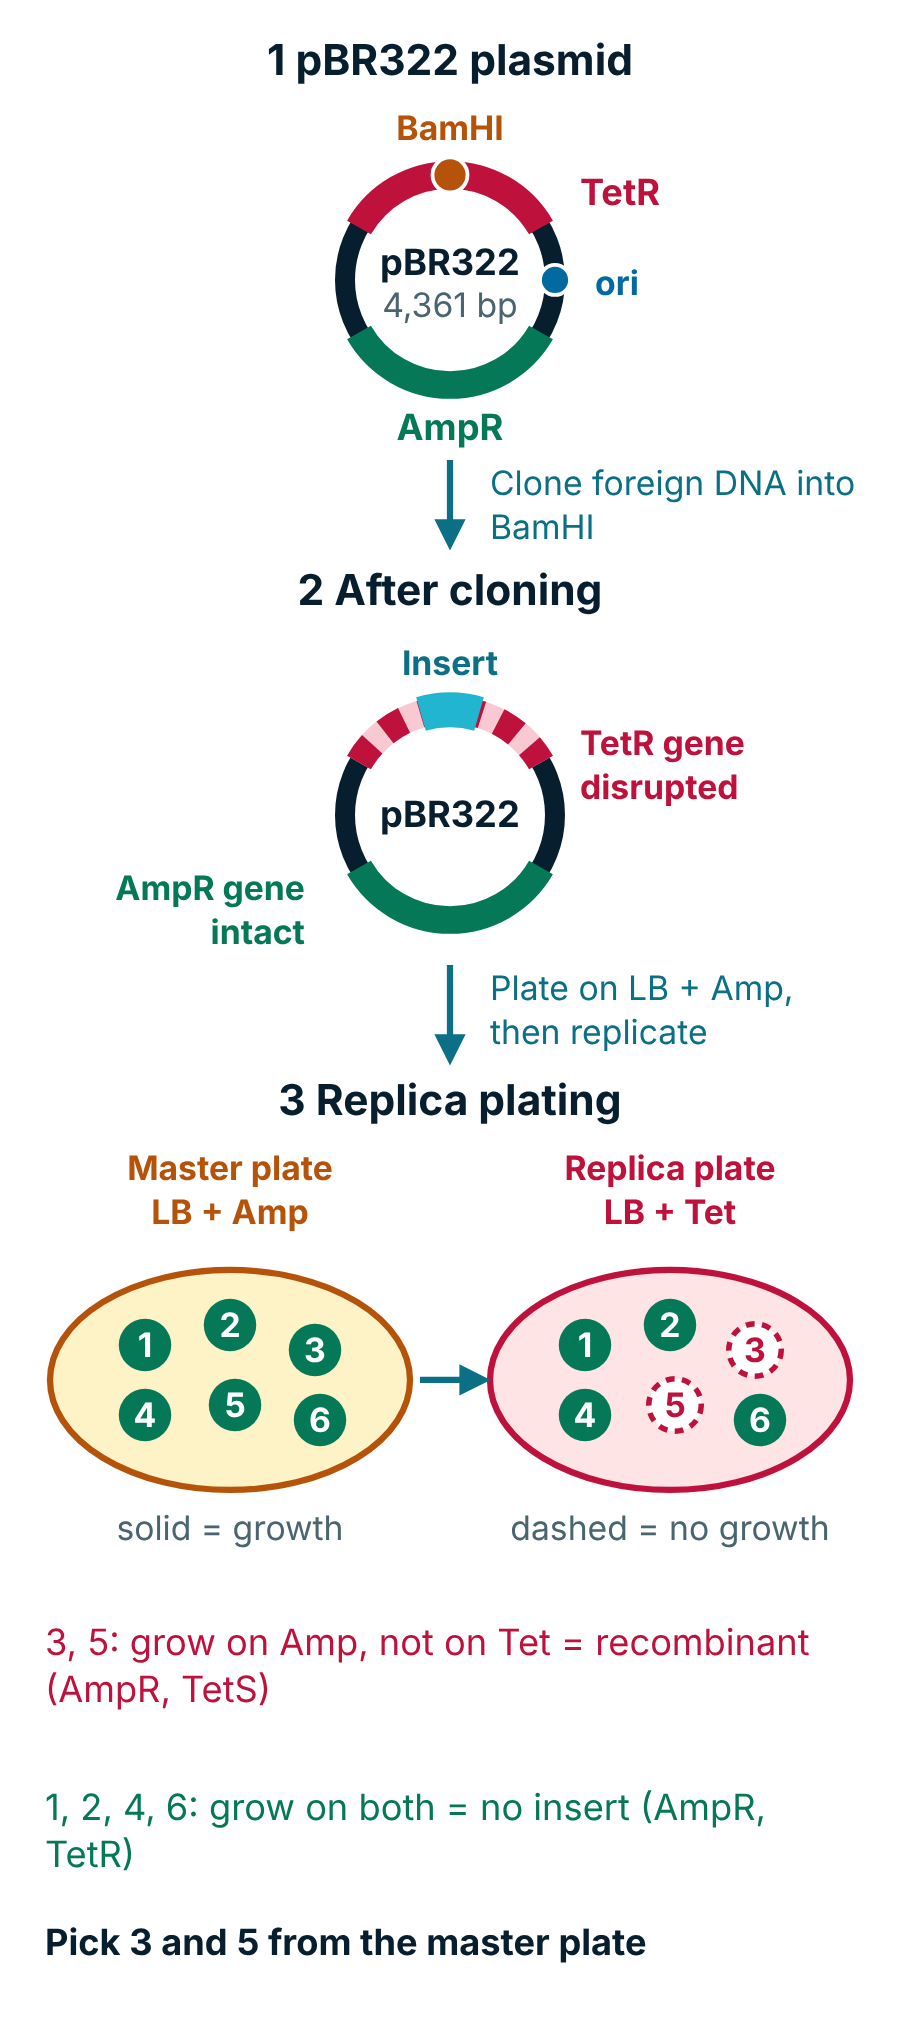
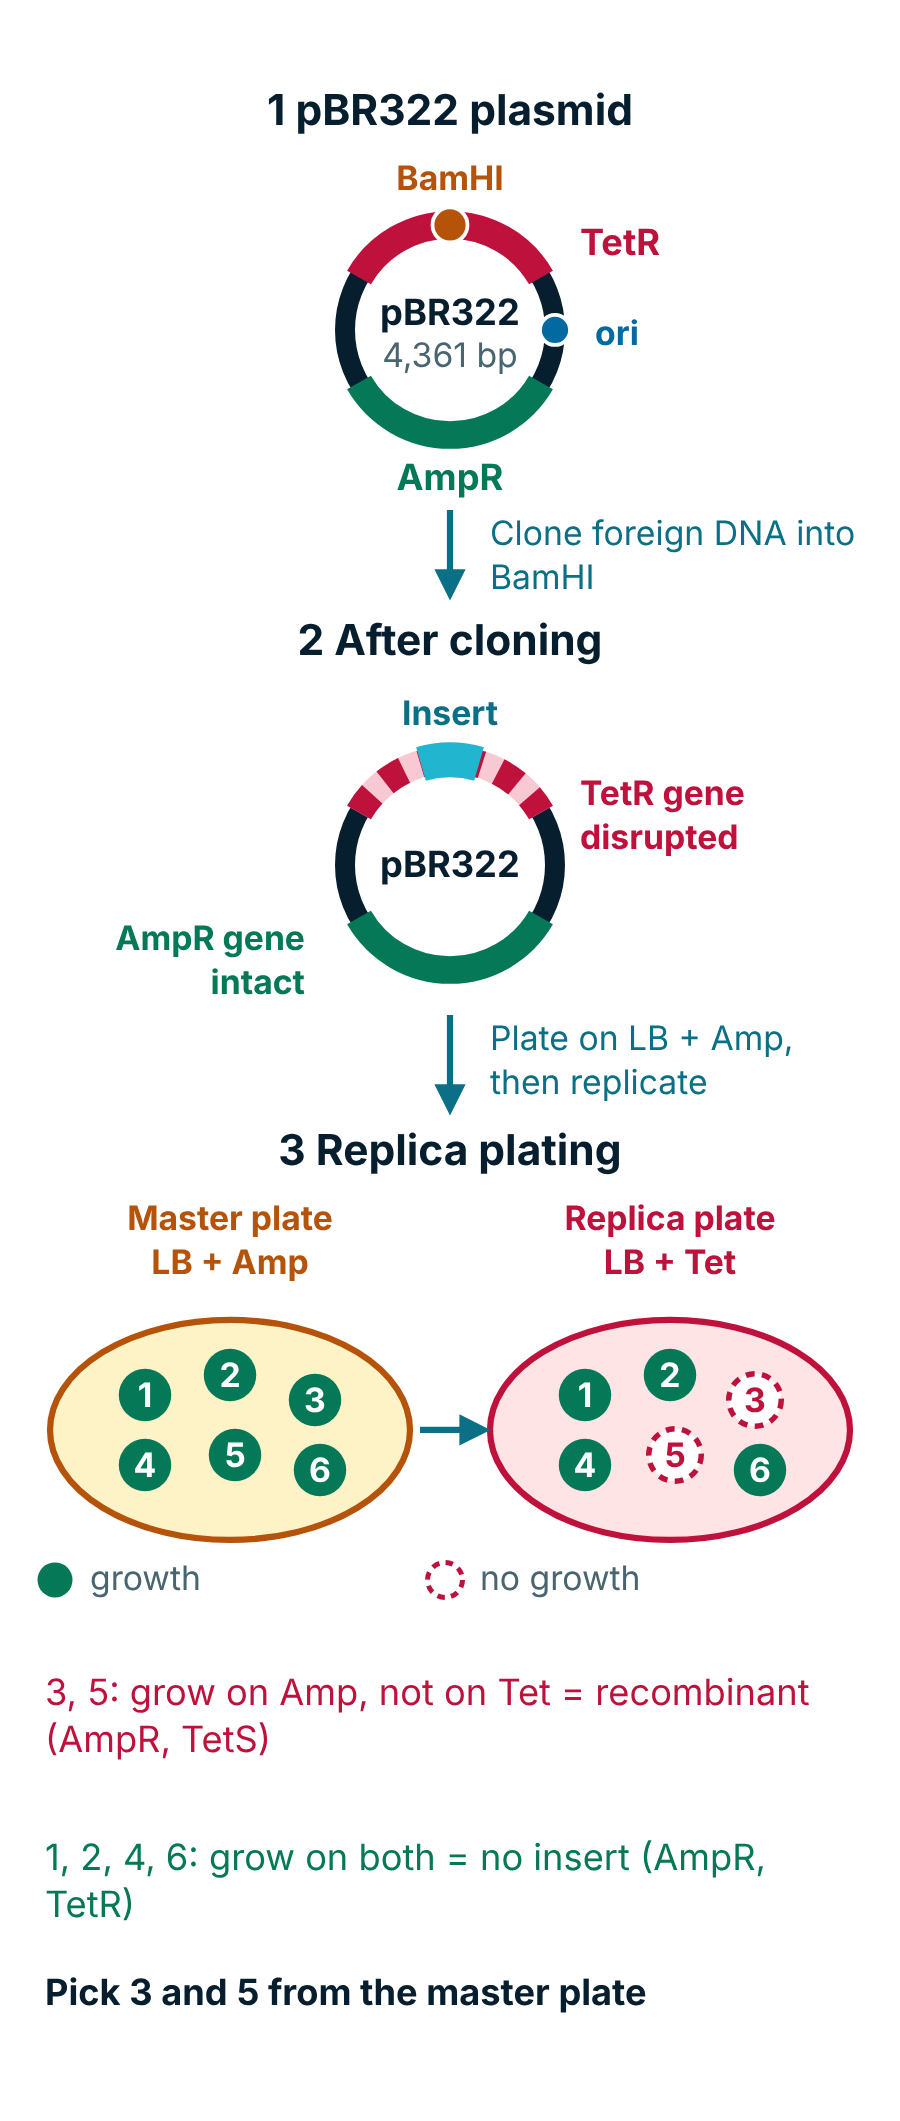
Pilot: legend uses drawn symbols plus short words; canvas padded 20 units so the 4% margin gate passes again; Tamil terms report (incomplete, stated)
Claude-Session: https://claude.ai/code/session_01Wo7Biy93fw6YCyh6drJ1WX

diff --git a/docs/audit/tamil-terms-vs-textbooks.md b/docs/audit/tamil-terms-vs-textbooks.md
@@ -1,0 +1,33 @@
+# Tamil terms against the TN State Board Tamil-medium textbooks (item 6) - INCOMPLETE, stated plainly
+
+## What I could and could not reach
+- The official TNSCERT / tntextbooks PDFs could not be opened here: the shell has no route to tntextbooks.in, tnschools.gov.in or tnscert.org, and the PDF links on tntextbooks.in point to Google Drive files that my fetch tool refuses. I did not use any connected Google Drive.
+- The only public text of a State Board Tamil-medium book I could read is a third-party transcription of Class 12 Bio-Zoology (Tamil Medium), Chapter 9 "Applications of Biotechnology" (studymaterial.kalvisolai.com). It is a transcription, not the PDF: **no page numbers**, and I cannot rule out transcription differences.
+- Consequence: the column "page" is empty for every row, and only terms that occur in Chapter 9 could be checked. Most project terms are about rDNA tools, which sit in other chapters/books (Class 11/12 Bio-Zoology or Zoology) that I have not read. Those are "not checked", not "not found".
+
+## Table
+| English | Tamil (project) | Textbook | Class | Page | Status |
+|---|---|---|---|---|---|
+| recombinant | மறுசேர்க்கை | Bio-Zoology TM, ch. 9 (transcription), heading "9.1.1 மறுசேர்க்கை மனித இன்சுலின்" and "மறுசேர்க்கை DNA" | 12 | n/a | confirmed (in the transcription) |
+| plasmid | பிளாஸ்மிட் | same chapter, 9.1.1 and 9.1.3 | 12 | n/a | confirmed (in the transcription) |
+| vector | தாங்கிக்கடத்தி (project-wide) | same chapter uses **கடத்தி** (9.1.3, 9.2, 9.5) | 12 | n/a | **alternative**: the book uses கடத்தி; my term does not occur |
+| inactivation | செயலிழப்பு (inside "செருகல் வழிச் செயலிழப்பு") | 9.2 "மரபணுவின் செயலிழப்பு" | 12 | n/a | word confirmed; the compound "insertional inactivation" not found |
+| amplification | பெருக்கம் | 9.4 "டி.என்.ஏ பெருக்கமடைதல்" | 12 | n/a | confirmed (in the transcription) |
+| clone | நகல் / நகலாக்கம் | 9.7 | 12 | n/a | confirmed; note: my "replica plating = நகல் தட்டிடல்" reuses நகல் for a different idea, so a reader may confuse clone and replica |
+| restriction enzyme | (project term) | not in ch. 9 | - | - | not found in the source I could read |
+| ligase | லைகேஸ் | not in ch. 9 | - | - | not found in the source I could read |
+| colony | காலனி | not in ch. 9 | - | - | not found in the source I could read |
+| selectable marker | (project term) | not in ch. 9 | - | - | not found in the source I could read |
+| resistant / sensitive | எதிர்ப்புத்திறன் கொண்டது / உணர்திறன் கொண்டது | ch. 9 has எதிர்ப்பொருள் (antibody), a different word | - | - | not found |
+| blue / white (colony) | நீலம் / வெள்ளை | not in ch. 9 | - | - | not found in the source I could read |
+| replica plating, velvet pad, master plate, no growth, growth | நகல் தட்டிடல், வெல்வெட் பட்டை, முதன்மைத் தட்டு, வளர்ச்சி இல்லை, வளர்ச்சி | not in ch. 9 | - | - | not found in the source I could read |
+| host cell | (project term) | ch. 9 has இலக்கு செல் (target cell), not an exact match | 12 | n/a | not found / different concept |
+
+## The 56 English fallback words
+**Not checked.** Their Tamil equivalents would come from rDNA, PCR, gel and bioinformatics chapters that I could not read in a State Board source. I am not proposing Tamil for them; they stay as English, and the 30 affected figures (see `shipped-validity.md`) stay mixed-language until you supply or approve terms. No guesses.
+
+## Pilot legend (done)
+"solid = growth / dashed = no growth" is replaced by drawn symbols (filled green circle; dashed red ring) with short words: "வளர்ச்சி" and "வளர்ச்சி இல்லை" (EN "growth" / "no growth"). Those two Tamil words are themselves unconfirmed in a textbook (table above).
+
+## What would close this
+The official PDF (or the page numbers) of Class 11 and 12 Tamil-medium Bio-Zoology, which you can attach, or whichever textbook chapters you consider authoritative for rDNA tools. With the PDF I can fill the page column for every row.
